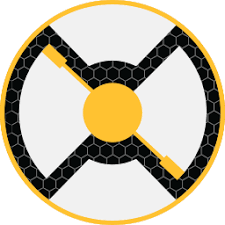
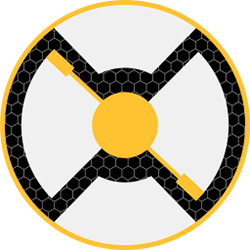
fix some foundation apps issues

diff --git a/app/Item.php b/app/Item.php
@@ -28,24 +28,24 @@ class Item extends Model
         return [
             'Duplicati' => \App\SupportedApps\Duplicati::class,
             'Emby' => \App\SupportedApps\Emby::class,
+			'Home Assistant' => \App\SupportedApps\HomeAssistant::class,
+			'Jackett' => \App\SupportedApps\Jackett::class,
             'Jdownloader' => \App\SupportedApps\Jdownloader::class,
             'Mcmyadmin' => \App\SupportedApps\Mcmyadmin::class,
-            'NZBGet' => \App\SupportedApps\Nzbget::class,
             'Nextcloud' => \App\SupportedApps\Nextcloud::class,
+            'NZBGet' => \App\SupportedApps\Nzbget::class,
             'Openhab' => \App\SupportedApps\Openhab::class,
+            'pFsense' => \App\SupportedApps\Pfsense::class,
             'Pihole' => \App\SupportedApps\Pihole::class,
             'Plex' => \App\SupportedApps\Plex::class,
             'Plexpy' => \App\SupportedApps\Plexpy::class,
             'Plexrequests' => \App\SupportedApps\Plexrequests::class,
             'Portainer' => \App\SupportedApps\Portainer::class,
+			'Radarr' => \App\SupportedApps\Radarr::class,
             'Sabnzbd' => \App\SupportedApps\Sabnzbd::class,
+			'Sonarr' => \App\SupportedApps\Sonarr::class,
             'Traefik' => \App\SupportedApps\Traefik::class,
             'UniFi' => \App\SupportedApps\Unifi::class,
-            'pFsense' => \App\SupportedApps\Pfsense::class,
-			'Sonarr' => \App\SupportedApps\Sonarr::class,
-			'Radarr' => \App\SupportedApps\Radarr::class,
-			'Home Assistant' => \App\SupportedApps\HomeAssistant::class,
-			'Jackett' => \App\SupportedApps\Jackett::class,
         ];
     }
     public static function supportedOptions()

diff --git a/app/SupportedApps/HomeAssistant.php b/app/SupportedApps/HomeAssistant.php
@@ -3,7 +3,7 @@
 class HomeAssistant implements Contracts\Applications {
     public function defaultColour()
     {
-        return '#0CA0E0';
+        return '#073c52';
     }
     public function icon()
     {

diff --git a/app/SupportedApps/Plexrequests.php b/app/SupportedApps/Plexrequests.php
@@ -3,7 +3,7 @@
 class Plexrequests implements Contracts\Applications {
     public function defaultColour()
     {
-        return '#845c2c';
+        return '#3c2d1c';
     }
     public function icon()
     {

diff --git a/app/SupportedApps/Openhab.php b/app/SupportedApps/Openhab.php
@@ -3,7 +3,7 @@
 class Openhab implements Contracts\Applications {
     public function defaultColour()
     {
-        return '#b7b7b7';
+        return '#2b2525';
     }
     public function icon()
     {

diff --git a/app/SupportedApps/Traefik.php b/app/SupportedApps/Traefik.php
@@ -3,7 +3,7 @@
 class Traefik implements Contracts\Applications {
     public function defaultColour()
     {
-        return '#427d8c';
+        return '#28434a';
     }
     public function icon()
     {

diff --git a/app/SupportedApps/Radarr.php b/app/SupportedApps/Radarr.php
@@ -3,7 +3,7 @@
 class Radarr implements Contracts\Applications {
     public function defaultColour()
     {
-        return '#CE9100';
+        return '#3e3726';
     }
     public function icon()
     {

diff --git a/app/SupportedApps/Sonarr.php b/app/SupportedApps/Sonarr.php
@@ -3,7 +3,7 @@
 class Sonarr implements Contracts\Applications {
     public function defaultColour()
     {
-        return '#0CA0E0';
+        return '#163740';
     }
     public function icon()
     {

diff --git a/app/SupportedApps/Jackett.php b/app/SupportedApps/Jackett.php
@@ -3,7 +3,7 @@
 class Jackett implements Contracts\Applications {
     public function defaultColour()
     {
-        return '#AA5';
+        return '#484814';
     }
     public function icon()
     {
